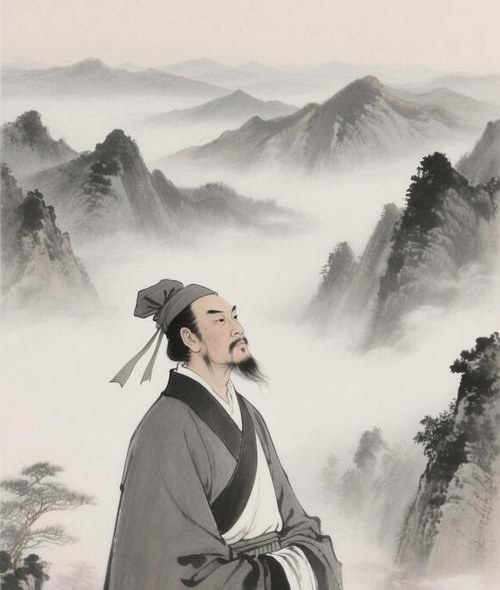
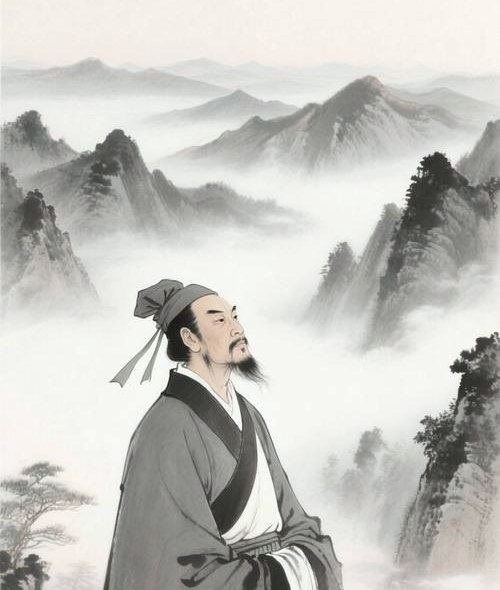
fix: 时间轴右上角水墨画像底色归一到宣纸色(#F6F1EA)，遮罩改半透明让纸纹理透出

diff --git a/tools/match_ink_tone.py b/tools/match_ink_tone.py
@@ -1,0 +1,47 @@
+# -*- coding: utf-8 -*-
+"""把 person-ink.jpg 的宣纸底色归一到页面统一宣纸色 #F6F1EA。
+
+画像素材本身底色偏深偏黄（实测约 rgb(229,219,210)），
+按通道增益整体校正（深色墨迹按比例同样微调），使图像背景与
+页面 paper-bg 平均色一致，消除右上角色差。
+"""
+from pathlib import Path
+from PIL import Image
+import statistics
+
+root = Path(__file__).resolve().parents[1] / 'miniprogram/assets'
+path = root / 'paintings/person-ink.jpg'
+img = Image.open(path).convert('RGB')
+w, h = img.size
+px = img.load()
+
+# 1) 实测上边缘条带的背景色（人物以外的留白区）
+rs, gs, bs = [], [], []
+for x in range(0, w, 5):
+    for y in range(0, max(40, h // 14), 3):
+        r, g, b = px[x, y]
+        rs.append(r); gs.append(g); bs.append(b)
+bg = (statistics.mean(rs), statistics.mean(gs), statistics.mean(bs))
+print('measured bg:', [round(v) for v in bg])
+
+TARGET = (246, 241, 234)  # 页面统一宣纸色 #F6F1EA
+gain = [min(1.25, t / b) for t, b in zip(TARGET, bg)]
+print('gain:', [round(g, 3) for g in gain])
+
+# 2) 逐像素应用增益（曲线裁剪）
+lut = []
+for g in gain:
+    lut += [min(255, int(i * g + 0.5)) for i in range(256)]
+img = img.point(lut)
+
+# 校验校正后的背景
+px2 = img.load()
+rs, gs, bs = [], [], []
+for x in range(0, w, 5):
+    for y in range(0, max(40, h // 14), 3):
+        r, g, b = px2[x, y]
+        rs.append(r); gs.append(g); bs.append(b)
+print('normalized bg:', round(statistics.mean(rs)), round(statistics.mean(gs)), round(statistics.mean(bs)))
+
+img.save(path, 'JPEG', quality=78, optimize=True)
+print('saved', (path.stat().st_size // 1024), 'KB')

diff --git a/miniprogram/assets/paintings/SOURCES.md b/miniprogram/assets/paintings/SOURCES.md
@@ -10,7 +10,7 @@
 | song.jpg | 《清明上河图》郊野段（张择端） | 发现页"北宋"朝代卡 | 故宫博物院官网 img.dpm.org.cn | 未确认授权；原图为公有领域 |
 | modern.jpg | 《开国大典》（董希文 绘） | 发现页"近现代"朝代卡 | 网络搜索（开国大典 油画） | 未确认授权；作者 1973 年逝世，中国境内已过保护期 |
 | landscape.jpg | 《千里江山图》卷局部（王希孟） | 我的页横幅、头像圆 | 百度图片缩略（1049×500 真迹卷面） | 未确认授权；原图为公有领域 |
-| person-ink.jpg | 水墨文人 + 淡远山（近苏轼像气质） | 时间轴页右上角（渐变融入宣纸） | 百度图片缩略（关键词"苏轼 画像 水墨"），PIL 裁掉底部水印与留白 | 未确认授权；上线前替换或确认 |
+| person-ink.jpg | 水墨文人 + 淡远山（近苏轼像气质）；**底色已由 `tools/match_ink_tone.py` 归一到页面宣纸色 #F6F1EA**，与背景无缝 | 时间轴页右上角（渐变融入宣纸） | 百度图片缩略（关键词"苏轼 画像 水墨"），PIL 裁掉底部水印与留白 + 色调归一 | 未确认授权；上线前替换或确认 |
 | seal.png | "史载"朱砂印章（首页 hero 同款印）**透明背景 RGBA** | 时间轴标题旁小印、朝代头卡小印（替代手写 CSS 印） | `tools/crop_seal.py`：palace.jpg 红色像素检测裁切 → 3x LANCZOS 放大 → "红度"alpha 抠图（背景全透明，任何卡片底无缝） | 与首页同源；上线前随 palace 一起确认授权 |
 
 获取方式可复现：`tools/fetch_all.py`（按 `tools/fetch_plan.json` 批量搜图）；

diff --git a/docs/DEVELOPMENT_LOG.md b/docs/DEVELOPMENT_LOG.md
@@ -296,6 +296,20 @@ miniprogram/data/history.js
 
 ---
 
+## 2026-10-19 · 时间轴右上角水墨画像底色统一（用户截图：右上角色调不一致）
+
+**现象**：画像素材自身纸底偏深偏黄（实测 rgb(229,219,210)），与页面宣纸 #F6F1EA(246,240,234) 明显色差，右上角露出时形成色调不一致的区块；且旧渐变遮罩用 100% 不透明平色，把纸纹理盖平了。
+
+**修复**：
+
+- 新增 `tools/match_ink_tone.py`：实测图像上缘背景均值 → 按通道增益（×1.076/1.103/1.116）整体归一，校正后背景恰为 246/241/234，与 paper-bg 平均色一致（38KB）。
+- `.person-fade-x/-y` 渐变由平色停点改为半透明停点（顶部 0.25、左侧 0.8→0.35→0；底缘 0.97 收墨色），宣纸纹理可透出，不再有"平色贴片"感。
+- 自测：palace.jpg（首页 hero）边角 (250,249,247) 与卡片 #FCFBF8 一致，无需处理；全页其余色块（seg 卡、事件卡）均为统一 #FCFBF8。
+
+**校验**：wcc exit 0；validate OK 6 pages；包体 596KB。
+
+---
+
 ## 2026-10-19 · seal.png 透明化（用户截图：印章底色块与卡片不一致）
 
 **现象**：era-band 卡上的印章图自带米色底，和卡片 #FCFBF8 有色差，形成可见色块（用户红框标注）。
